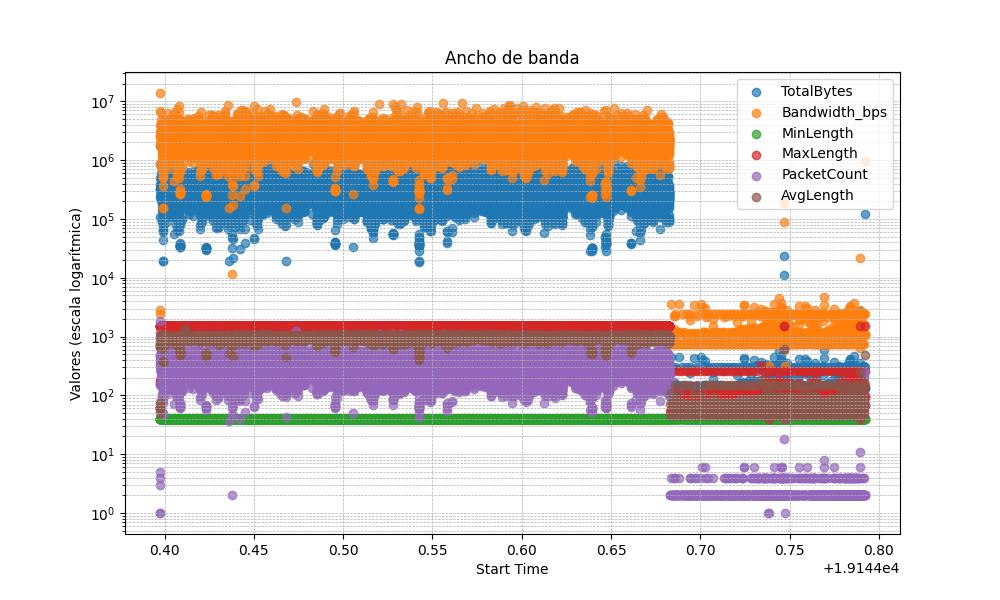
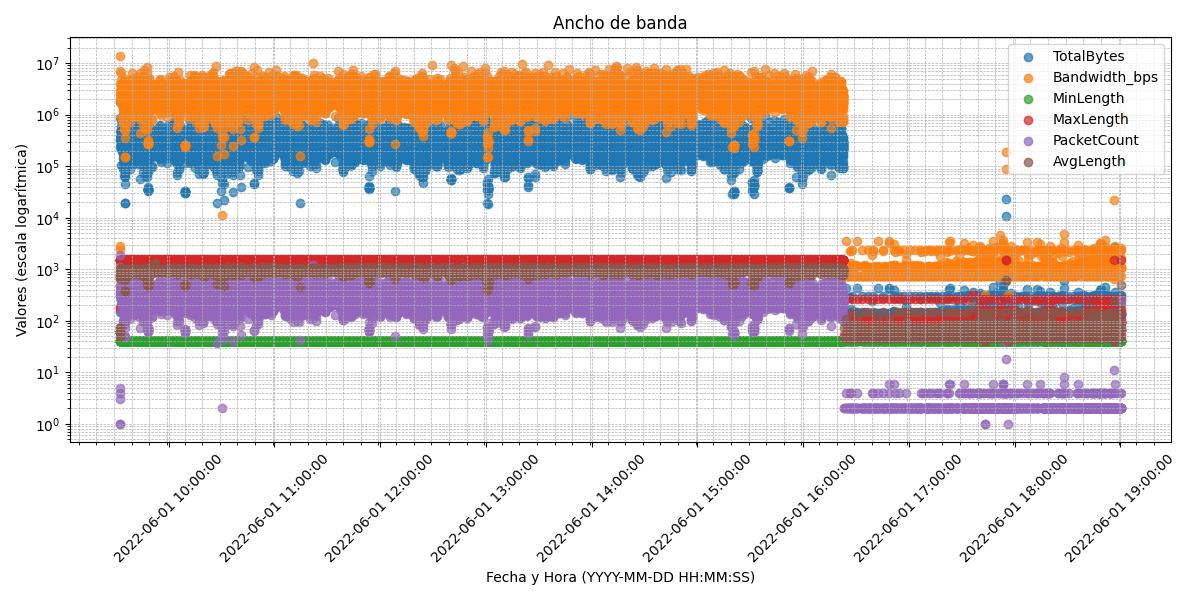
Solo falta repasar ortografia

diff --git a/graficas.py b/graficas.py
@@ -4,11 +4,15 @@ from pathlib import Path
 from geopy.geocoders import Nominatim
 from pathlib import Path
 import geopandas as gpd
-
+import matplotlib.dates as mdates
+import pandas as pd
+import matplotlib.pyplot as plt
+from pathlib import Path
+from datetime import datetime, timedelta
+import matplotlib.dates as mdates
 """
 Script que realiza graficas con el output por de script_ejecucion_local.sh
 """
-
 
 # Configuración del directorio y archivo
 input_directory = Path("./outputs/output_anchobanda")  
@@ -32,29 +36,38 @@ if not dataframes:
 
 combined_df = pd.concat(dataframes, ignore_index=True)
 
-# Convertir start_time a datetime
+# Convertir start_time a datetime manejando formato correcto
 combined_df["start_time"] = pd.to_datetime(combined_df["start_time"], errors="coerce")
 
-# Crear la gráfica de puntos
-plt.figure(figsize=(10, 6))
-for column in combined_df.columns:
-    if column not in ["start_time", "end_time"]:
-        plt.scatter(combined_df["start_time"], combined_df[column], label=column, alpha=0.7)
+# Filtrar columnas relevantes
+columns_to_plot = [col for col in combined_df.columns if col not in ["start_time", "end_time"]]
 
-plt.xscale("linear")
-plt.yscale("log")  
-plt.xlabel("Start Time")
+# Crear la gráfica de puntos
+plt.figure(figsize=(12, 6))
+for column in columns_to_plot:
+    plt.scatter(combined_df["start_time"], combined_df[column], label=column, alpha=0.7)
+
+# Configurar el eje x con formato de fechas y etiquetas visibles
+plt.gca().xaxis.set_major_locator(mdates.HourLocator(interval=1))  # Etiquetas cada hora
+plt.gca().xaxis.set_minor_locator(mdates.MinuteLocator(interval=10))  # Ticks menores cada 10 minutos
+plt.gca().xaxis.set_major_formatter(mdates.DateFormatter("%Y-%m-%d %H:%M:%S"))
+plt.xticks(rotation=45)
+
+plt.xlabel("Fecha y Hora (YYYY-MM-DD HH:MM:SS)")
 plt.ylabel("Valores (escala logarítmica)")
 plt.title("Ancho de banda")
+plt.yscale("log")
 plt.legend()
 plt.grid(True, which="both", linestyle="--", linewidth=0.5)
 
 # Guardar la gráfica como archivo JPEG
 output_file = output_directory / "grafica_ancho_banda.jpeg"
+plt.tight_layout()
 plt.savefig(output_file, format="jpeg")
 plt.close()
 
 print(f"La gráfica de puntos ha sido guardada como {output_file}")
+
 
 ################################################################################################################################################################
 ################################################################################################################################################################

diff --git a/README.md b/README.md
@@ -32,7 +32,8 @@ Proyecto final del grupo 9 de la asignatura de Cloud y Big Data de la Universida
       - [**Speed-up en cluster con distinta cantidad de vCpus**](#speed-up-en-cluster-con-distinta-cantidad-de-vcpus)
       - [**Speed-up en cluster con distinta cantidad de vCpus y nodos**](#speed-up-en-cluster-con-distinta-cantidad-de-vcpus-y-nodos)
     - [Características avanzadas, como herramientas/modelos/plataformas no explicadas en clase, funciones avanzadas, técnicas para mitigar los sobrecostes, aspectos de implementación desafiantes](#características-avanzadas-como-herramientasmodelosplataformas-no-explicadas-en-clase-funciones-avanzadas-técnicas-para-mitigar-los-sobrecostes-aspectos-de-implementación-desafiantes)
-    - [Conclusiones, incluyendo objetivos alcanzados, mejoras sugeridas, lecciones aprendidas, trabajo futuro, ideas interesantes.](#conclusiones-incluyendo-objetivos-alcanzados-mejoras-sugeridas-lecciones-aprendidas-trabajo-futuro-ideas-interesantes)
+    - [Conclusiones, incluyendo objetivos alcanzados, mejoras sugeridas, lecciones aprendidas, trabajo futuro, ideas interesantes](#conclusiones-incluyendo-objetivos-alcanzados-mejoras-sugeridas-lecciones-aprendidas-trabajo-futuro-ideas-interesantes)
+      - [**Mejoras sugeridos y trabajo futuro**](#mejoras-sugeridos-y-trabajo-futuro)
     - [Referencias](#referencias)
 
 ## Participantes
@@ -667,17 +668,38 @@ Un aspecto desafiante que hemos encontrado a la hora de implementar el proyecto 
 
 ---
 
-### Conclusiones, incluyendo objetivos alcanzados, mejoras sugeridas, lecciones aprendidas, trabajo futuro, ideas interesantes.
+### Conclusiones, incluyendo objetivos alcanzados, mejoras sugeridas, lecciones aprendidas, trabajo futuro, ideas interesantes
 
 Para facilitar las conclusiones hemos generado una serie de graficas con los archivos de salida al ejecutar el programa con el datasets entero:
 
 ![graficas_ancho_banda](./graficas/grafica_ancho_banda.jpeg)
 
+Podemos observar varias cosas:
+- La cantidad de paquetes por segundo varia entre los 100 y 1000  hasta el 2022-06-01 16:00:00 donde baja a 5-6 paquetes por segundo.
+- El ancho de banda ronda los 5 millones de bps hasta la misma fecha que se deploma a 1000 bps.
+- El tamaño del paquete mas grande se mantiene en los 1500 hasta el misma fecha que antes que empieza a variar ente 100-500 bits.
+
+Este patron se repite en todos los colores por lo que se ve que en esa fecha , lo cual puede ser una caida de un servidor o un cambio en la calidad de la transmisión del video.
+
 ![graficas_ancho_banda_protocolo](./graficas/grafica_anchobanda_protocolos.jpeg)
+
+La gráfica muestra que el protocolo THRIFT tiene el mayor ancho de banda medio, lo cual podría deberse a la presencia de grandes transferencias de datos o a un número reducido de registros que influyen en el cálculo de la media. El protocolo TCP presenta un ancho de banda considerable y consistente, acorde a su función en la transmisión confiable de datos. Por otro lado, TLSv1.2 y TLSv1.3 tienen valores intermedios, lo que sugiere un uso moderado en tráfico seguro. Finalmente, HTTP muestra el menor ancho de banda medio, lo cual es coherente con su uso habitual en transferencias de datos más ligeras. Sería necesario como trabajo futuro revisar la cantidad de registros y la posible presencia de valores atípicos, especialmente en el caso de THRIFT.
 
 ![graficas_ancho_banda_frecuencia](./graficas/grafica_frecuencia_protocolos.jpeg)
 
+El protocolo que más se repite es TCP, lo cual es esperable debido a su uso predominante en la transmisión confiable de datos. En aplicaciones como videos en directo, donde se envían grandes cantidades de paquetes, TCP es el protocolo ideal porque garantiza la entrega de los datos de forma ordenada y sin pérdidas. Los demás protocolos, como TLSv1.2, TLSv1.3, HTTP y THRIFT, tienen frecuencias mucho menores, lo que sugiere un uso más específico o reducido en comparación con TCP que concuerda con nuestro conocimiento sobre protocoles de redes.
+
 ![mapa_ciudades](./graficas/mapa_ciudades.jpeg)
+
+Observamos que las IP provienen de varias regiones del mundo, principalmente Corea del Sur, Estados Unidos y Filipinas. Aunque no disponemos de las frecuencias para determinar cuál es la región predominante, la distribución no parece ser muy dispersa globalmente. Esto sugiere que el público objetivo del video en directo se concentra en regiones específicas, lo que permitiría adaptar el idioma o contenido del directo a las preferencias de estas áreas.
+
+#### **Mejoras sugeridos y trabajo futuro**
+
+Como mejoras y trabajo futuro se nos ocurren varias cosas relacionadas con el analisis y con el uso del cloud.
+
+Respecto al analisis se podria ver la frecuencia de ubicacion con las ips para ver la localidad del público, asi como integrar las funciones de filtrado e indice invertido al resto de funciones y módulos.
+
+Respecto al uso del cloud se nos ocurre que los datos de red se pueden procesa en streaming redireccionandolos a pub/sub de GCP y procesandolo con Apache Beam y Dataflow , esto sería interesante debido a que los módulos no realizan operaciones demasiado complejas. El streaming sería "Stateful Stream Processing" ya que queremos resultados de todos los paquetes y aprovechamos el streaming para utilizar menos memoria que lo que sería necesario si se analizara en lotes.
 
 ---
 
